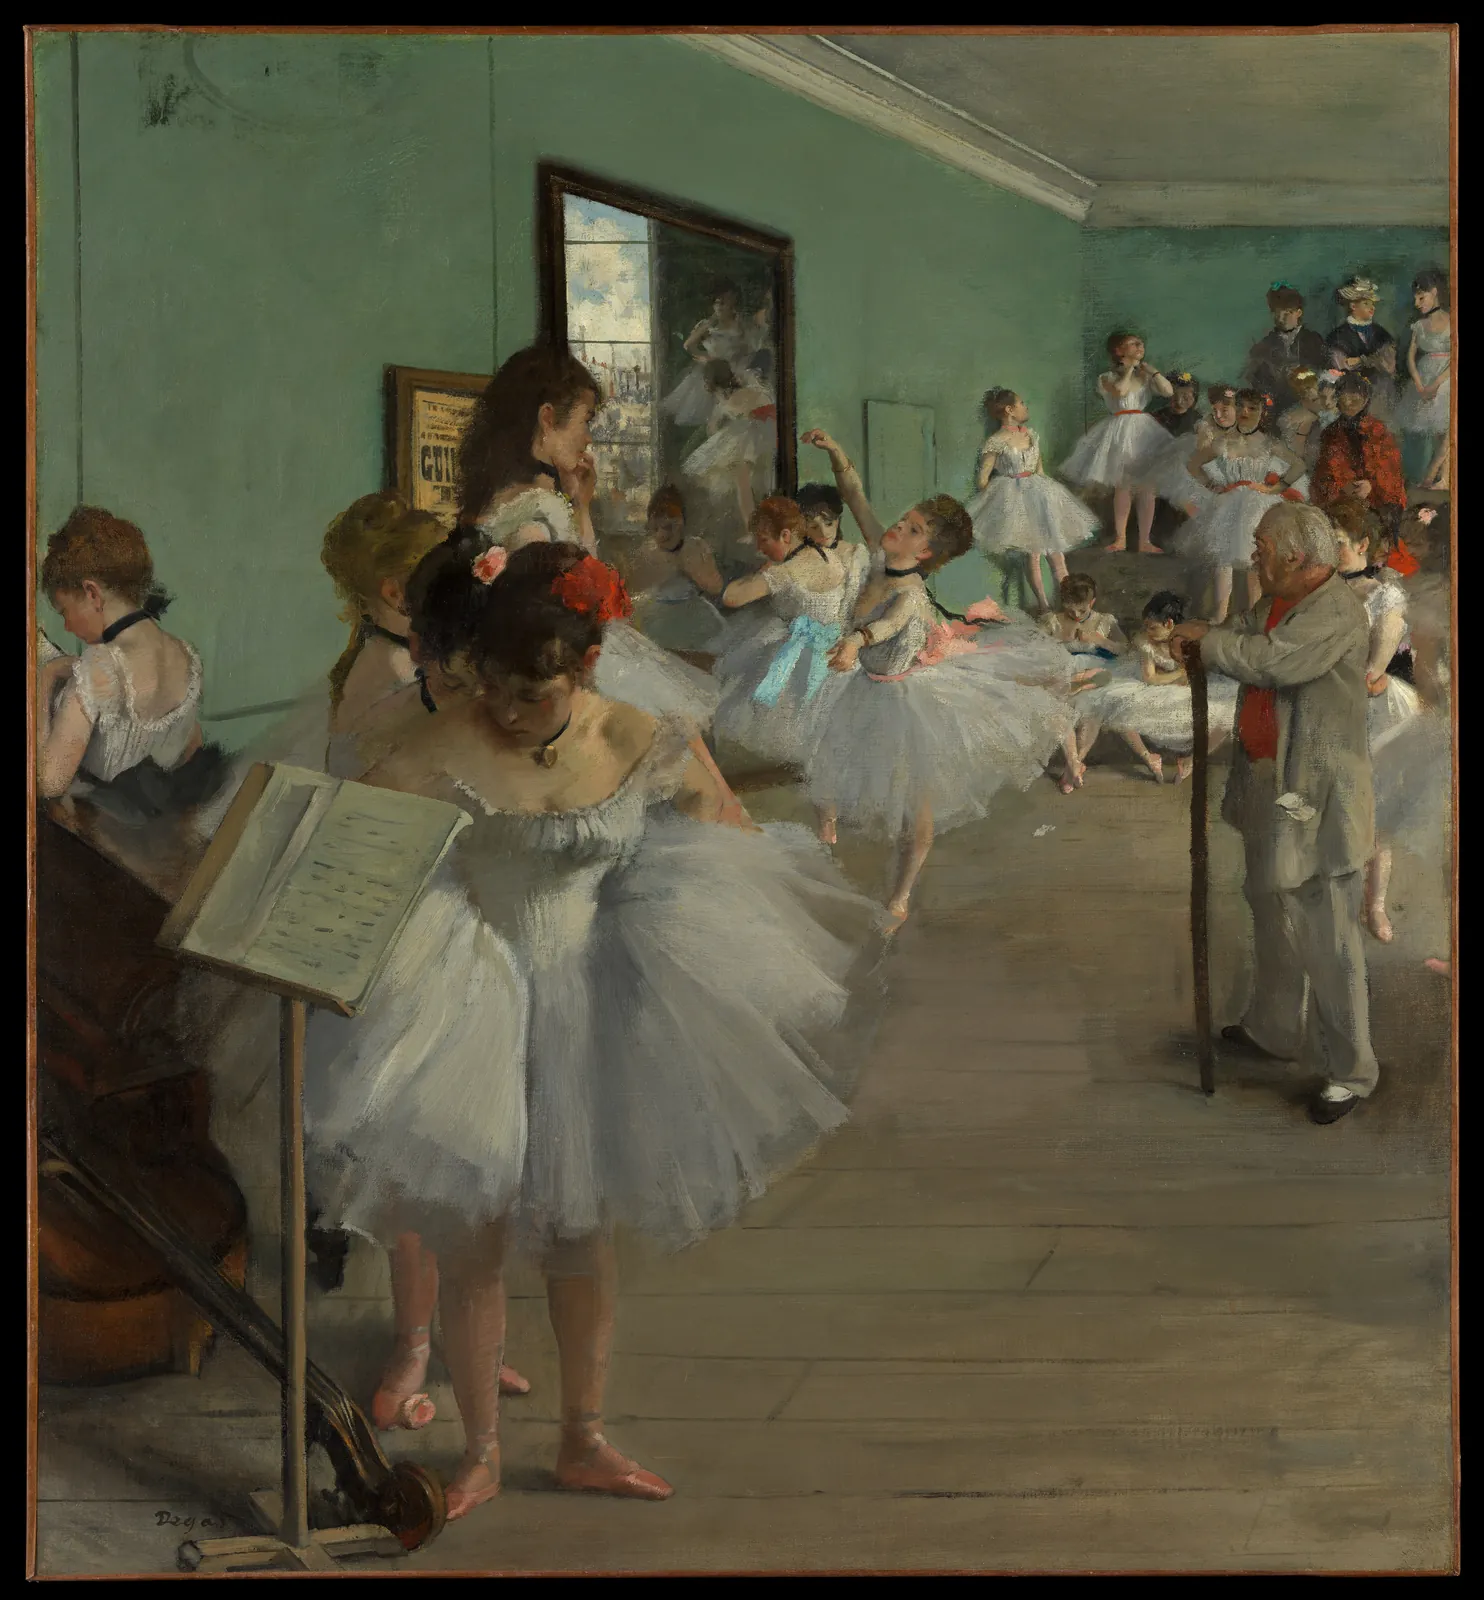
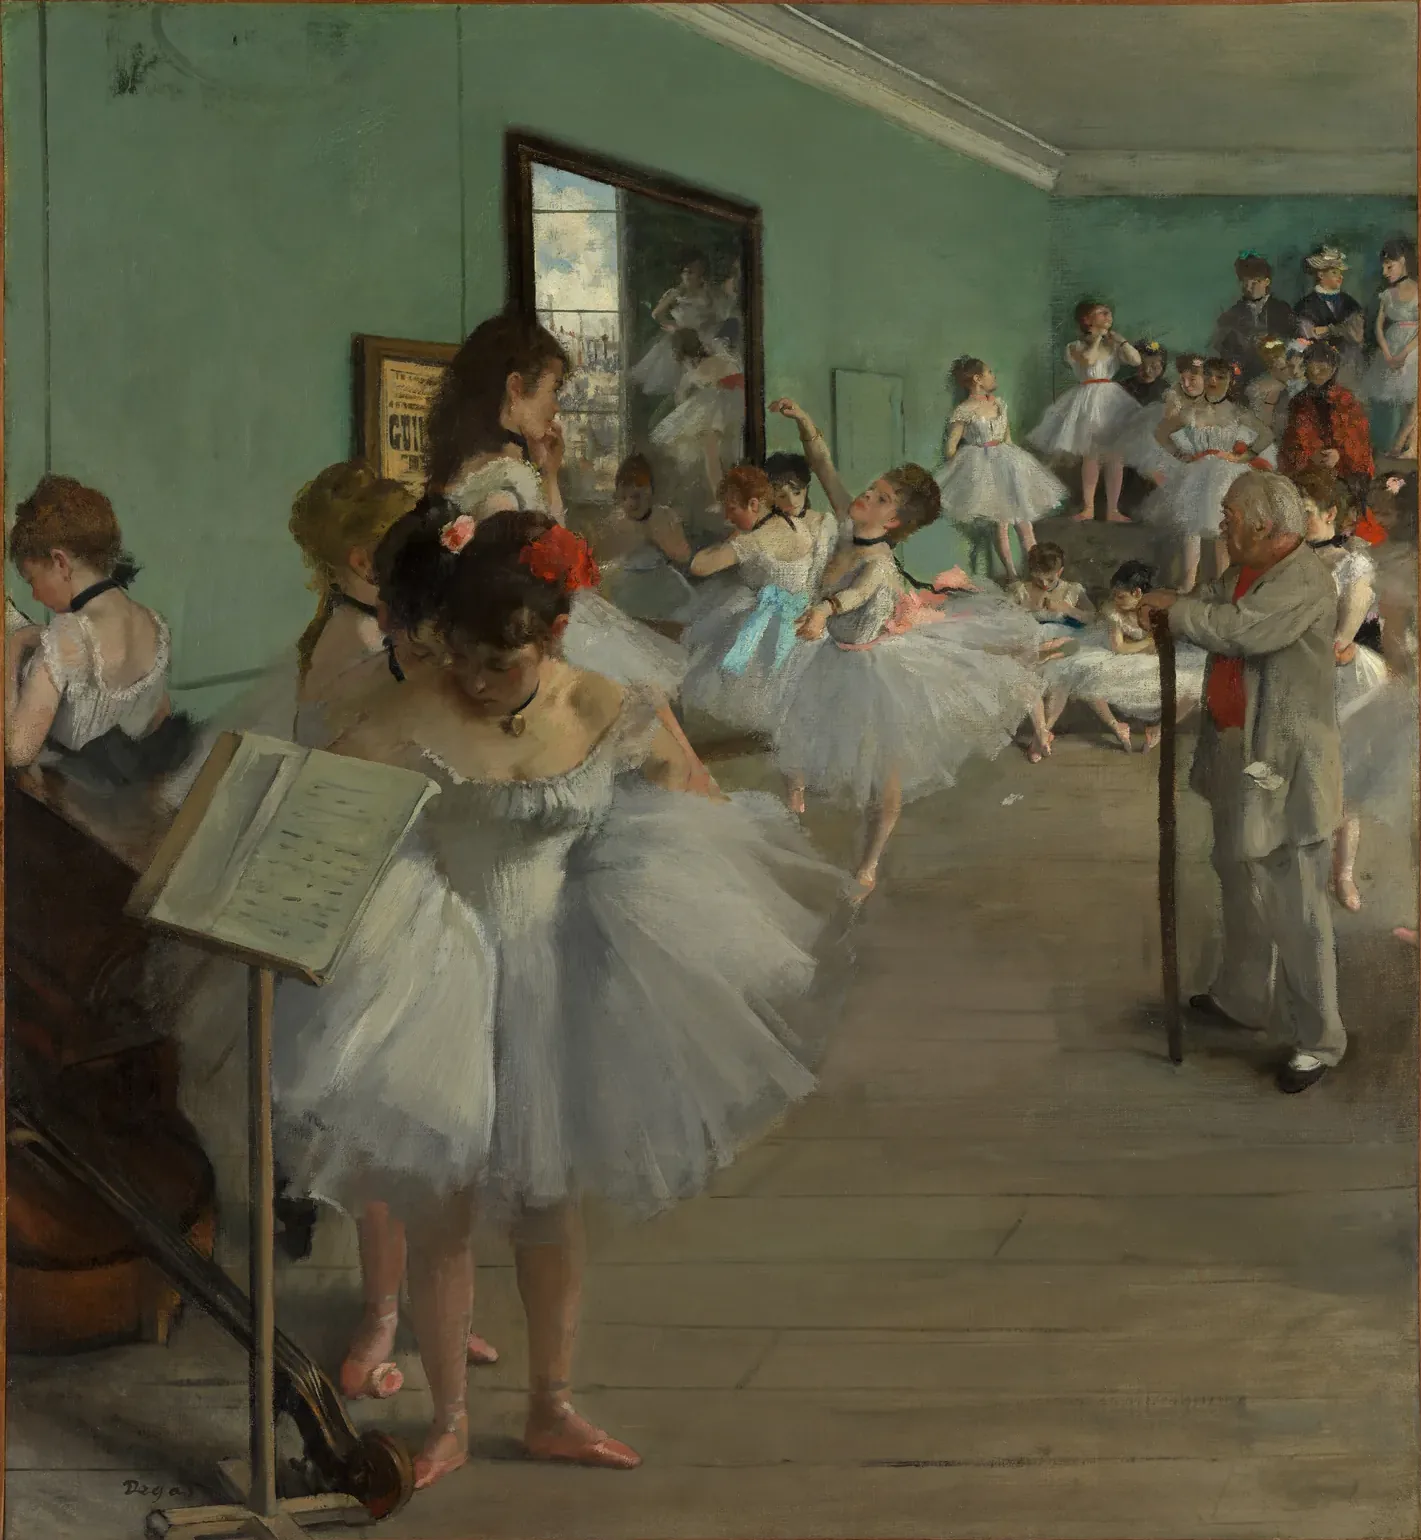
Post: crop the gift-shop prints to their pictures; the folded message's hover leaves room
The three scans kept their paper margins and Degas's black frame, so each thumbnail had a
different rim. They are cropped inside the keyline, with their ratios updated. The folded
message's hover fill ran flush with the avatar and the time and squared off; it now reaches a
step past the columns, rounds, and stops short of the lines between messages.

diff --git a/src/demos/post/conversations.ts b/src/demos/post/conversations.ts
@@ -168,7 +168,7 @@ export const CONVERSATIONS: Conversation[] = [
               'red-fuji',
               '2.3 MB',
               'oklch(0.6 0.12 35), oklch(0.55 0.1 245)',
-              1600 / 1103,
+              1498 / 1028,
               'Katsushika Hokusai, South Wind, Clear Sky (Red Fuji), c. 1830–32',
               'The Met, CC0',
             ),
@@ -176,7 +176,7 @@ export const CONVERSATIONS: Conversation[] = [
               'sudden-shower',
               '2.2 MB',
               'oklch(0.6 0.06 220), oklch(0.75 0.06 80)',
-              1098 / 1600,
+              909 / 1407,
               'Utagawa Hiroshige, Sudden Shower over Shin-Ōhashi Bridge and Atake, 1857',
               'The Met, CC0',
             ),
@@ -184,7 +184,7 @@ export const CONVERSATIONS: Conversation[] = [
               'dance-class',
               '2.6 MB',
               'oklch(0.7 0.05 160), oklch(0.6 0.05 60)',
-              1484 / 1600,
+              1421 / 1540,
               'Edgar Degas, The Dance Class, 1874',
               'The Met, CC0',
             ),

diff --git a/src/demos/post/Message.module.scss b/src/demos/post/Message.module.scss
@@ -88,14 +88,31 @@ $indent: calc(36px + var(--space-3));
   font-size: 14px;
   text-align: left;
   cursor: pointer;
+  position: relative;
+  isolation: isolate;
+
+  // The fill reaches a step past the columns and rounds, so the avatar and the time aren't
+  // flush with its edge, and stops short of the lines between messages.
+  &::before {
+    content: '';
+    position: absolute;
+    inset: 2px calc(-1 * var(--space-2));
+    z-index: -1;
+    border-radius: var(--radius-md);
+  }
 
   @include hover {
-    background: var(--fill-hover);
+    &::before {
+      background: var(--fill-hover);
+    }
   }
 
   &:focus-visible {
     outline: none;
-    box-shadow: inset 0 0 0 2px var(--accent);
+
+    &::before {
+      box-shadow: var(--focus-ring);
+    }
   }
 
   // On the open messages' name edge: their 36px avatar plus its gap, where this one is 28 inset 4.
